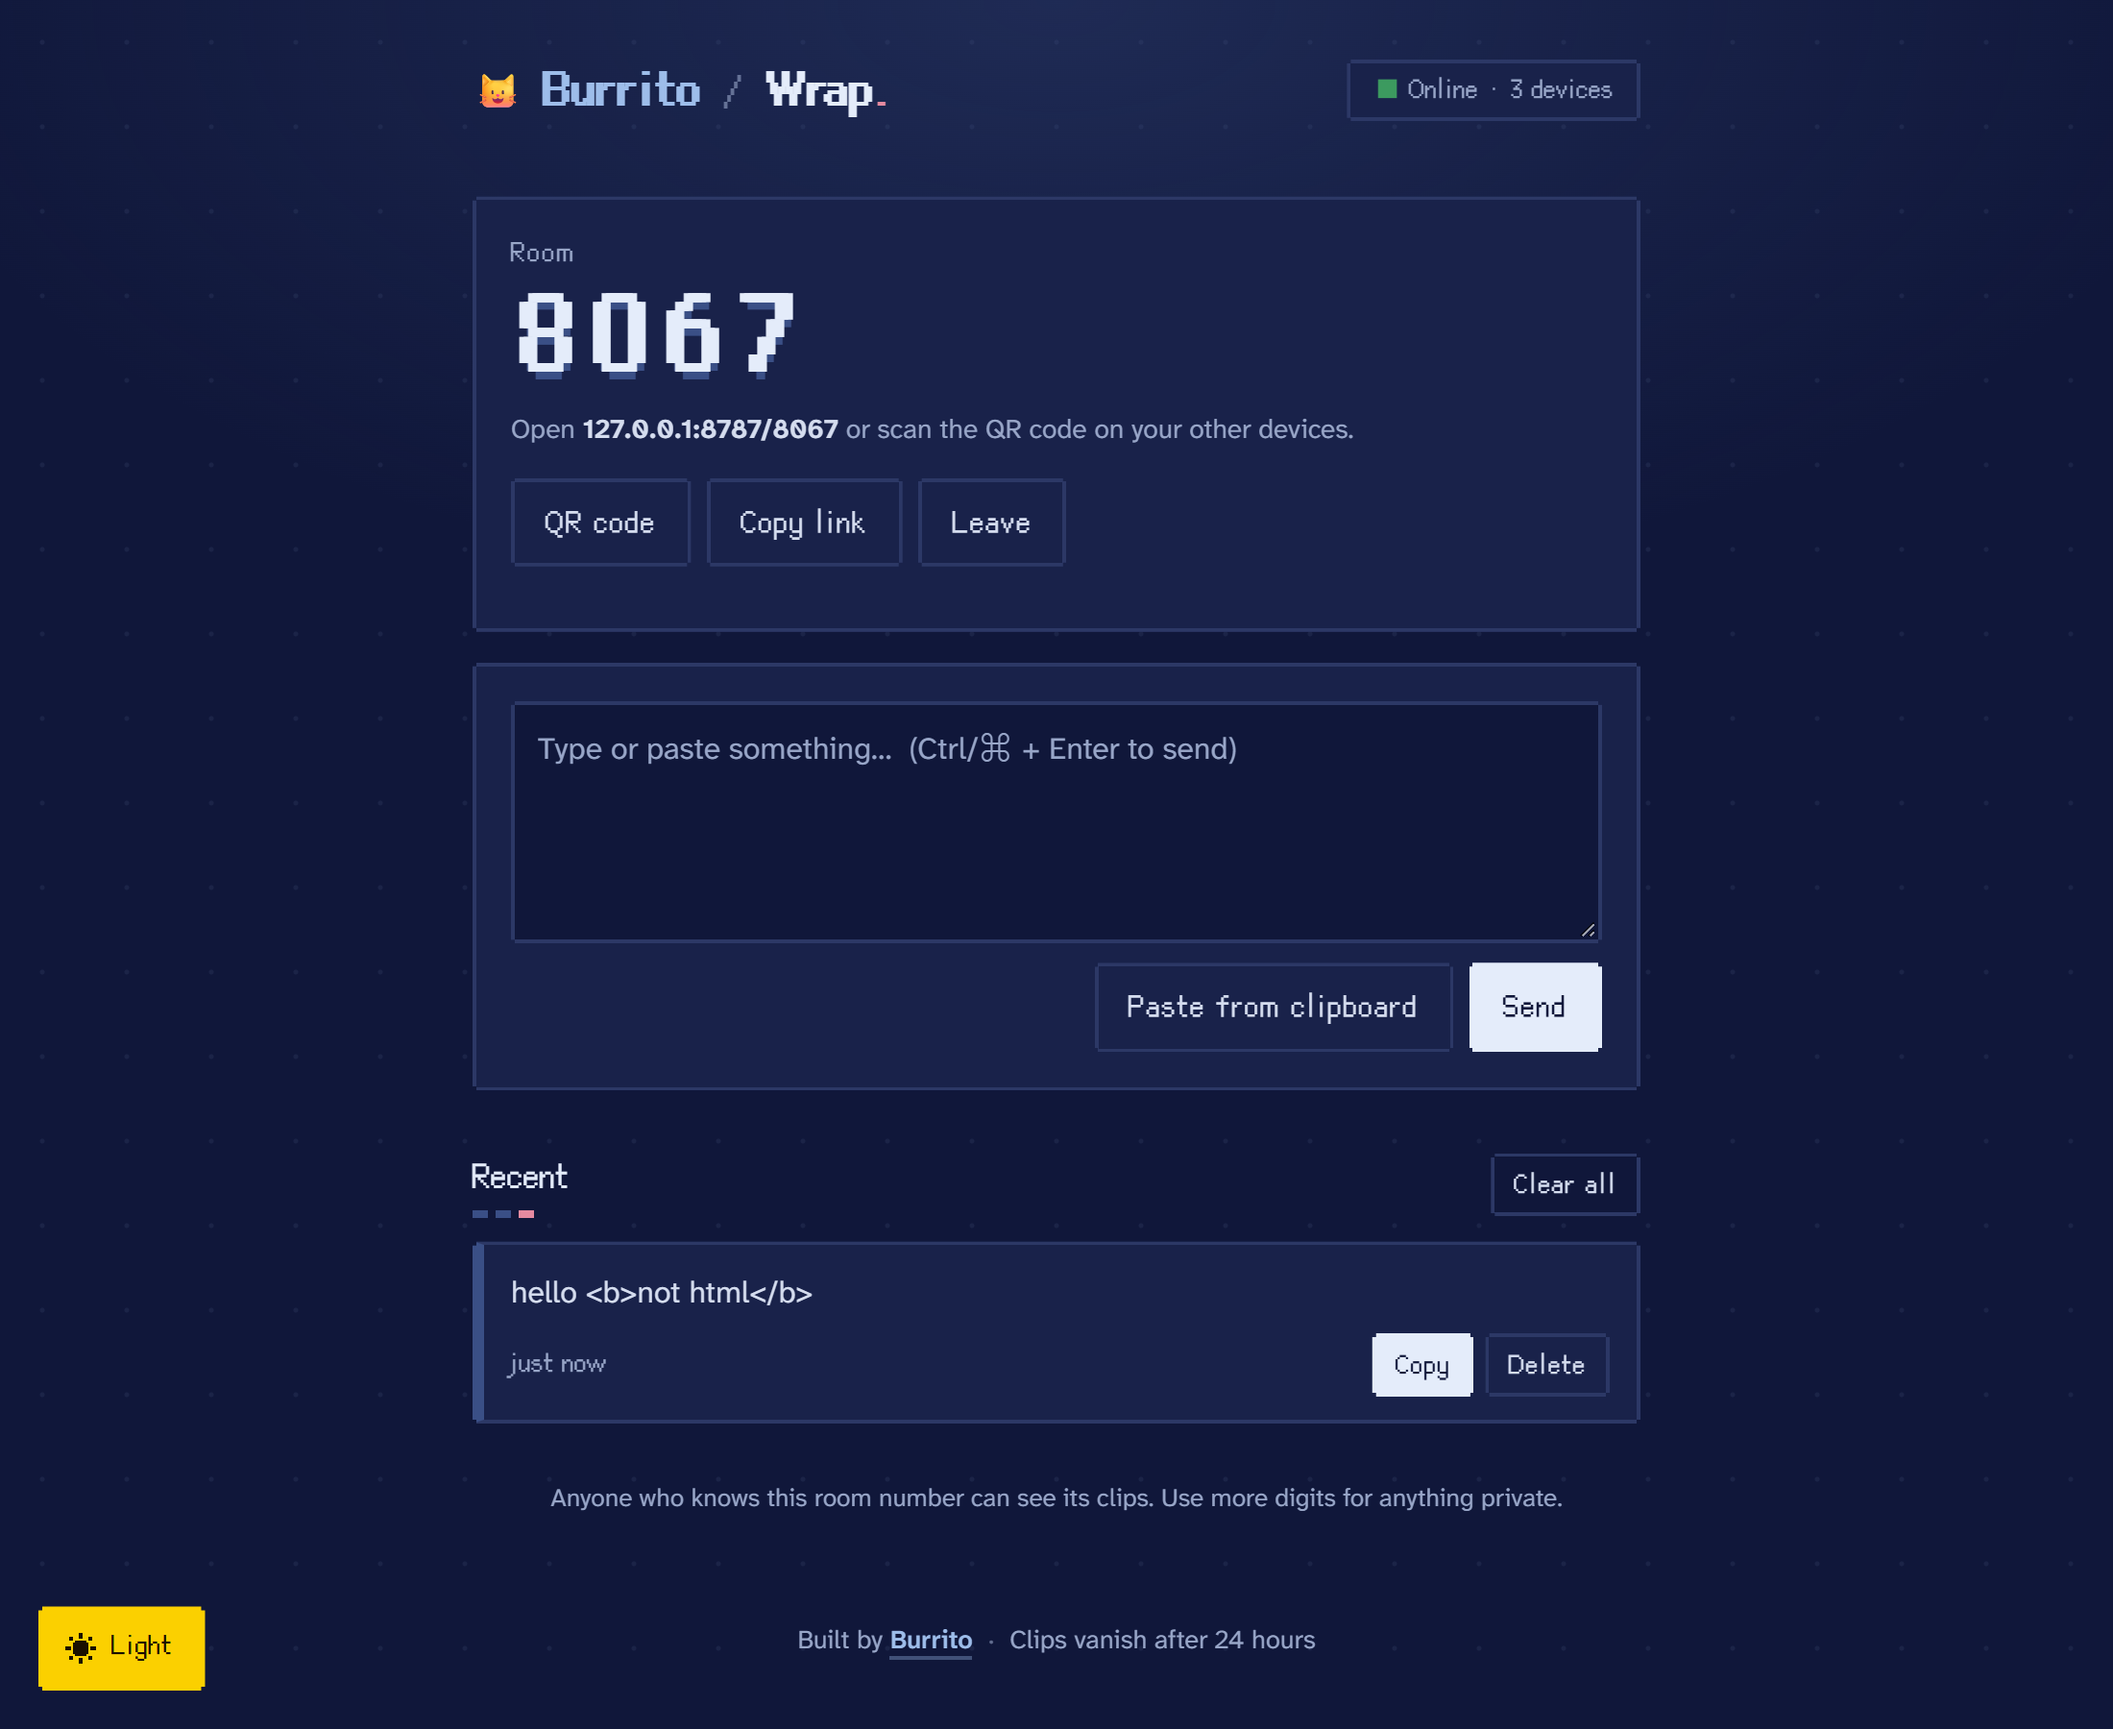
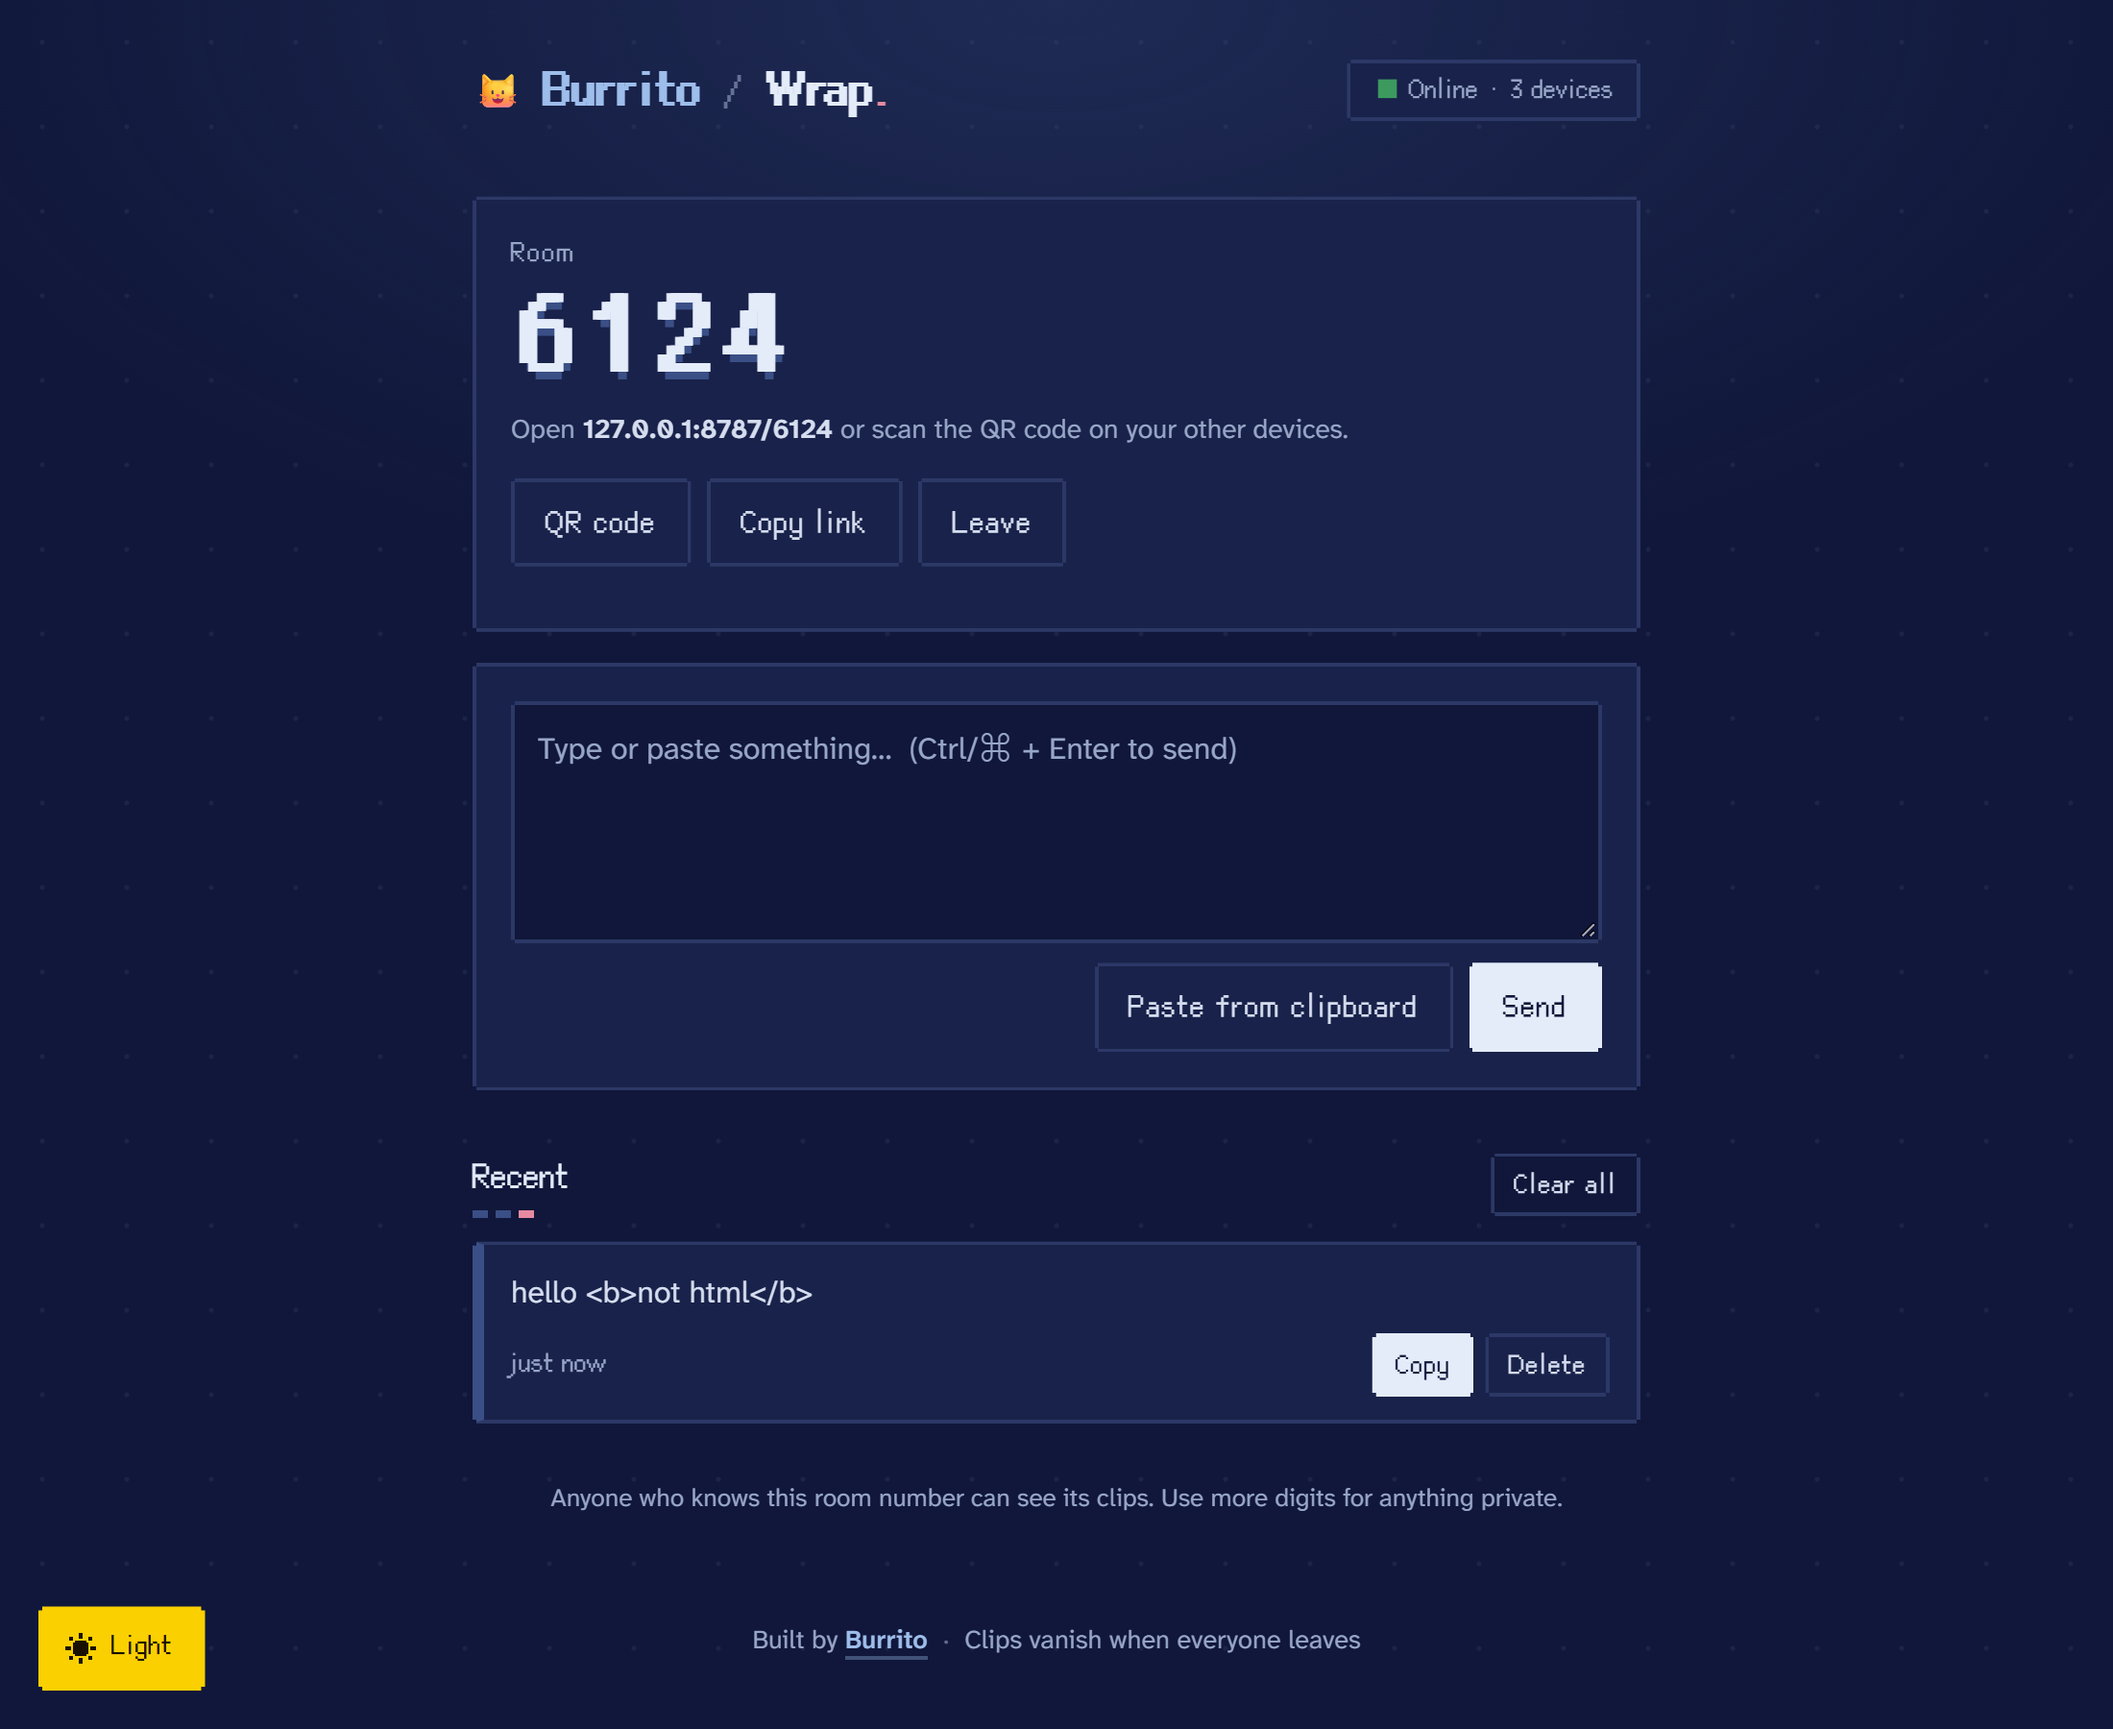
Destroy a room and its clips once everyone leaves
When the last device disconnects, the room waits EMPTY_GRACE_SECONDS
(60 by default, so a phone locking its screen doesn't wipe it) and then
deletes all of its clips.

diff --git a/src/worker.js b/src/worker.js
@@ -3,8 +3,12 @@ import { DurableObject } from "cloudflare:workers";
 // Limits keep one room from using unbounded storage or bandwidth.
 const MAX_CLIPS = 20; // recent clips kept per room
 const MAX_CLIP_CHARS = 64 * 1024; // max length of one clip
-const CLIP_TTL_MS = 24 * 60 * 60 * 1000; // clips older than this are dropped
-const IDLE_WIPE_MS = 24 * 60 * 60 * 1000; // wipe a room after a day of no activity
+const CLIP_TTL_MS = 24 * 60 * 60 * 1000; // even in a busy room, clips older than this are dropped
+const SAFETY_CHECK_MS = 24 * 60 * 60 * 1000; // re-check an occupied room once a day
+// When the last device leaves, the room waits this long before it is destroyed
+// (with all its clips). The pause covers phones that drop the connection when
+// the screen locks. Set EMPTY_GRACE_SECONDS in wrangler.toml to change it.
+const DEFAULT_GRACE_SECONDS = 60;
 
 // Room numbers are 4 to 8 digits, e.g. 1234.
 const ROOM_CODE = /^\d{4,8}$/;
@@ -51,6 +55,7 @@ export default {
 export class Room extends DurableObject {
   constructor(ctx, env) {
     super(ctx, env);
+    this.graceMs = (Number(env.EMPTY_GRACE_SECONDS) || DEFAULT_GRACE_SECONDS) * 1000;
     // Answer keepalive pings without waking the object up.
     ctx.setWebSocketAutoResponse(new WebSocketRequestResponsePair("ping", "pong"));
   }
@@ -66,7 +71,8 @@ export class Room extends DurableObject {
 
     server.send(JSON.stringify({ type: "history", clips: await this.loadClips() }));
     this.broadcastPresence();
-    await this.touch();
+    // Someone is here: cancel any pending destruction.
+    await this.ctx.storage.setAlarm(Date.now() + SAFETY_CHECK_MS);
 
     return new Response(null, { status: 101, webSocket: client });
   }
@@ -94,7 +100,6 @@ export class Room extends DurableObject {
       await this.ctx.storage.put("clips", clips.slice(-MAX_CLIPS));
 
       this.broadcast({ type: "clip", clip });
-      await this.touch();
     } else if (msg.type === "delete") {
       const clips = (await this.loadClips()).filter((c) => c.id !== msg.id);
       await this.ctx.storage.put("clips", clips);
@@ -109,26 +114,40 @@ export class Room extends DurableObject {
     try {
       ws.close(code === 1005 ? 1000 : code, "bye");
     } catch {}
-    this.broadcastPresence(ws);
+    await this.deviceLeft(ws);
   }
 
   async webSocketError(ws) {
-    this.broadcastPresence(ws);
+    await this.deviceLeft(ws);
   }
 
-  // Called after a day without activity: forget everything in this room.
+  async deviceLeft(ws) {
+    this.broadcastPresence(ws);
+    if (this.devices(ws) === 0) {
+      // Last one out: destroy the room unless someone returns within the grace period.
+      await this.ctx.storage.setAlarm(Date.now() + this.graceMs);
+    }
+  }
+
   async alarm() {
-    await this.ctx.storage.deleteAll();
+    if (this.devices() === 0) {
+      // Still empty: destroy the room and every clip in it.
+      await this.ctx.storage.deleteAll();
+    } else {
+      // Occupied: drop clips older than a day and check again tomorrow.
+      await this.ctx.storage.put("clips", await this.loadClips());
+      await this.ctx.storage.setAlarm(Date.now() + SAFETY_CHECK_MS);
+    }
+  }
+
+  devices(leaving) {
+    return this.ctx.getWebSockets().filter((ws) => ws !== leaving).length;
   }
 
   async loadClips() {
     const clips = (await this.ctx.storage.get("clips")) || [];
     const cutoff = Date.now() - CLIP_TTL_MS;
     return clips.filter((c) => c.ts >= cutoff);
-  }
-
-  async touch() {
-    await this.ctx.storage.setAlarm(Date.now() + IDLE_WIPE_MS);
   }
 
   broadcast(msg, except) {
@@ -142,7 +161,6 @@ export class Room extends DurableObject {
   }
 
   broadcastPresence(leaving) {
-    const devices = this.ctx.getWebSockets().filter((ws) => ws !== leaving).length;
-    this.broadcast({ type: "presence", devices }, leaving);
+    this.broadcast({ type: "presence", devices: this.devices(leaving) }, leaving);
   }
 }

diff --git a/public/index.html b/public/index.html
@@ -80,7 +80,7 @@
         <button id="clear" class="btn ghost small">Clear all</button>
       </div>
       <ul id="clips" class="clips"></ul>
-      <p id="empty" class="muted">Nothing here yet. Clips disappear after 24 hours.</p>
+      <p id="empty" class="muted">Nothing here yet. Clips disappear once every device has left the room.</p>
       <p class="note">Anyone who knows this room number can see its clips. Use more digits for anything private.</p>
     </section>
   </main>
@@ -88,7 +88,7 @@
   <footer class="app-footer">
     <span>Built by <a href="https://me.burr1to.org">Burrito</a></span>
     <span class="dot" aria-hidden="true">·</span>
-    <span>Clips vanish after 24 hours</span>
+    <span>Clips vanish when everyone leaves</span>
   </footer>
 
   <button id="theme-toggle" class="theme-toggle" aria-label="Switch theme">

diff --git a/README.md b/README.md
@@ -23,7 +23,9 @@ Pick a room number, paste on one device, copy on another.
 - **A room is a number**, 4 to 8 digits, such as `1234`. Every device that opens `wrap.burrito.rip/1234` joins the same room.
 - **One Worker** serves the webpage (`public/`) and handles the live connections (`/ws/1234`).
 - **One Durable Object per room** keeps each device's WebSocket open and relays new clips to the others instantly.
-  It keeps the last 20 clips for 24 hours, and wipes a room after a day of no activity.
+  It keeps the last 20 clips while the room is in use.
+- **Rooms destroy themselves.** When the last device leaves, the room waits 60 seconds (in case a phone just locked its screen), then deletes itself and every clip in it.
+  Change the wait with `EMPTY_GRACE_SECONDS` in `wrangler.toml`. In a room that stays busy, clips older than 24 hours are also dropped.
 - **Rate limiting.** Short numbers are easy to guess, so one visitor can try at most 30 rooms a minute.
   Anyone who knows a room number can still read that room's clips, so use more digits for anything private.
 
